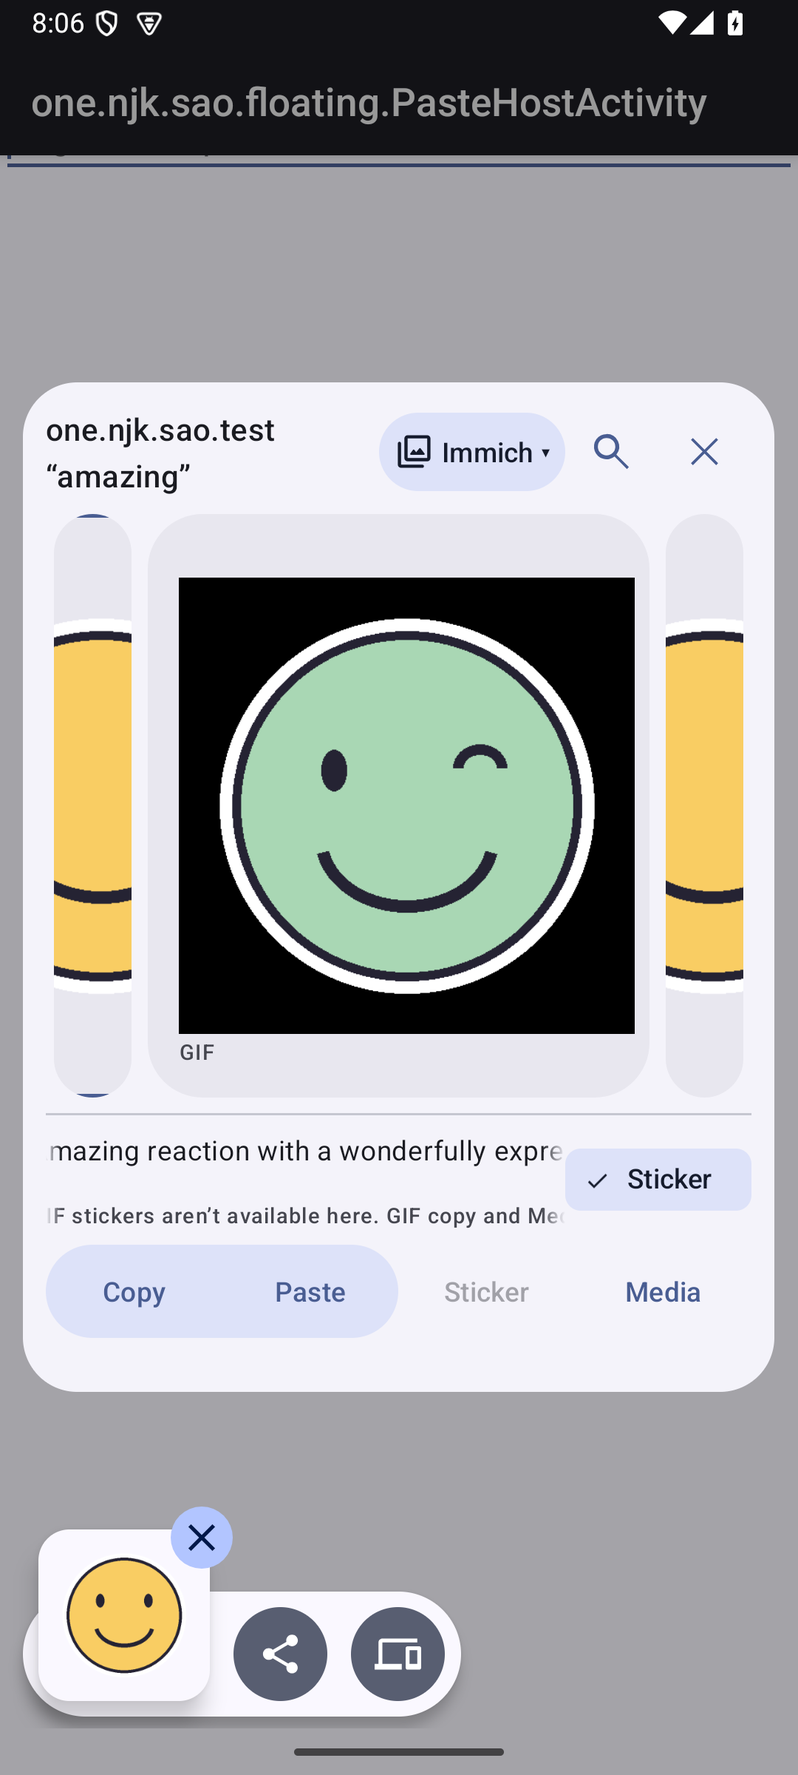
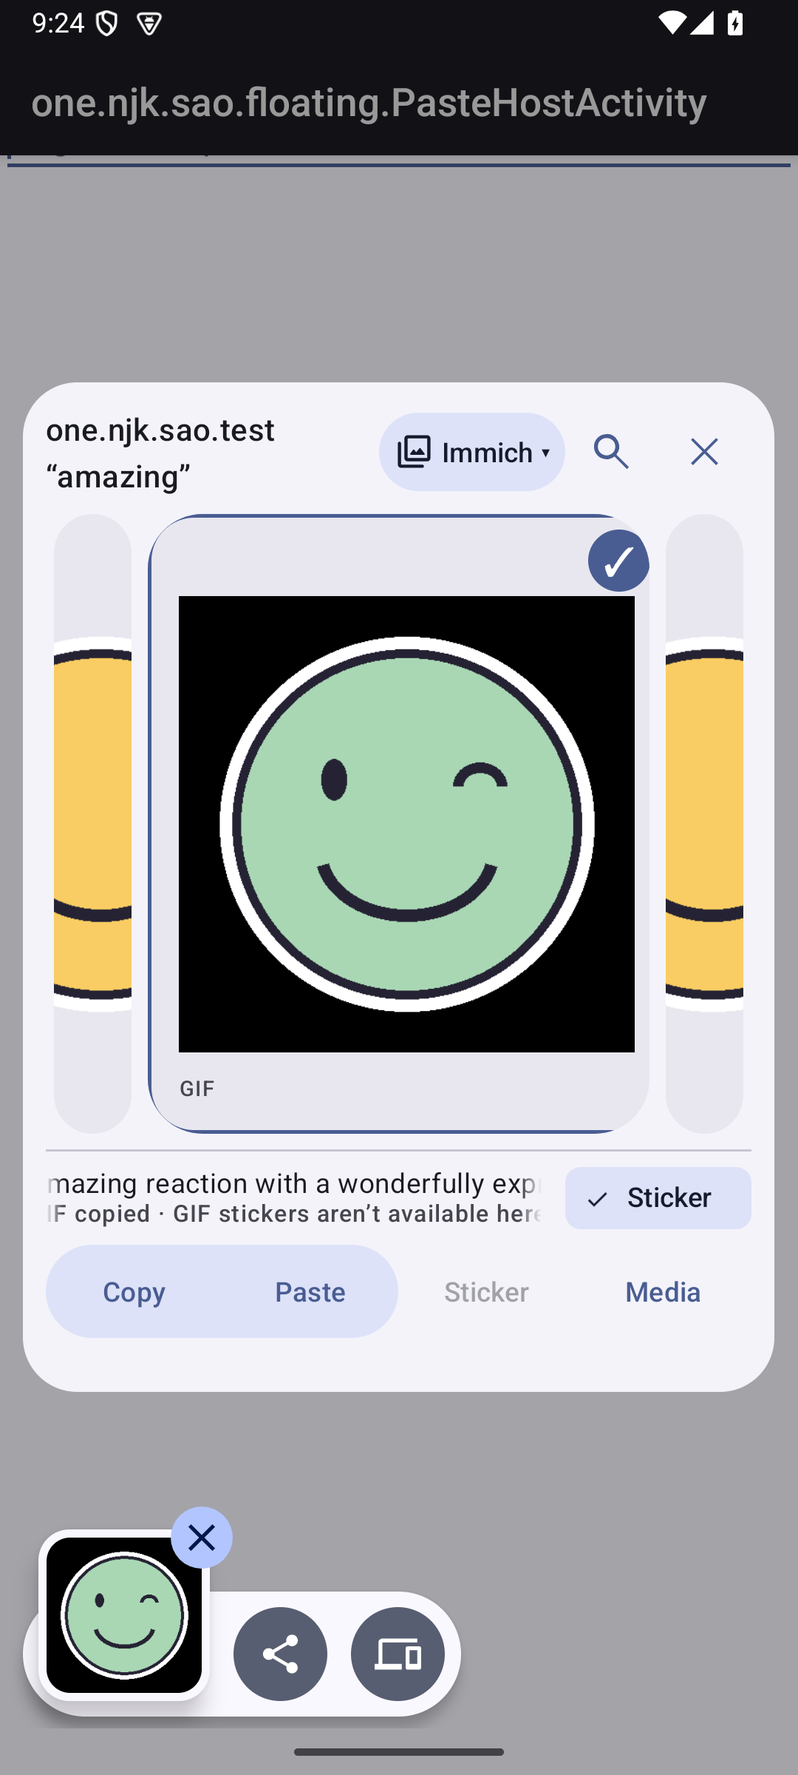
fix: tighten picker messages and align the delivery mode chip

diff --git a/app/src/androidTest/java/one/njk/sao/floating/PasteAssistDeviceTest.kt b/app/src/androidTest/java/one/njk/sao/floating/PasteAssistDeviceTest.kt
@@ -260,7 +260,7 @@ class PasteAssistDeviceTest {
                         var value = emptyList<Int>()
                         onPicker { activity ->
                             value = listOf(one.njk.sao.R.id.carousel_area, one.njk.sao.R.id.selection_row,
-                                one.njk.sao.R.id.capability_hint, one.njk.sao.R.id.dock_surface).flatMap { id ->
+                                one.njk.sao.R.id.selection_message, one.njk.sao.R.id.dock_surface).flatMap { id ->
                                 activity.findViewById<View>(id).let { listOf(it.top, it.height) }
                             }
                         }; return value
@@ -284,53 +284,67 @@ class PasteAssistDeviceTest {
                         onPicker { activity ->
                             val grid = activity.findViewById<androidx.recyclerview.widget.RecyclerView>(one.njk.sao.R.id.media_grid)
                             ready = grid.adapter!!.itemCount == 4 && !grid.isLayoutRequested &&
+                                (grid.findViewHolderForAdapterPosition(0) as? MediaCarouselAdapter.Holder)?.binding?.preview?.drawable != null &&
                                 activity.findViewById<View>(one.njk.sao.R.id.paste_action).isEnabled &&
                                 activity.findViewById<android.widget.TextView>(one.njk.sao.R.id.selection_title).text.startsWith("Amazing reaction") &&
-                                activity.findViewById<android.widget.TextView>(one.njk.sao.R.id.capability_hint).text.isEmpty()
+                                activity.findViewById<android.widget.TextView>(one.njk.sao.R.id.selection_message).text.isEmpty()
                         }; ready
                     }
                     SystemClock.sleep(150)
                     val empty = geometry(); screenshot("empty")
                     onPicker { it.findViewById<View>(one.njk.sao.R.id.copy_action).performClick() }
-                    await("Copy status must appear") { text(one.njk.sao.R.id.selection_status).isNotEmpty() }
+                    await("Copy status must appear") { text(one.njk.sao.R.id.selection_message).isNotEmpty() }
                     SystemClock.sleep(150)
                     val copied = geometry(); screenshot("copied")
                     onPicker { it.findViewById<androidx.recyclerview.widget.RecyclerView>(one.njk.sao.R.id.media_grid).smoothScrollToPosition(1) }
                     var trace = ""
                     try {
                         await("Centering a GIF must show its tip and clear the old copy status") {
-                            val hint = text(one.njk.sao.R.id.capability_hint)
-                            val status = text(one.njk.sao.R.id.selection_status)
+                            val hint = text(one.njk.sao.R.id.selection_message)
                             onPicker {
                                 val model = ViewModelProvider(it)[PickerViewModel::class.java]
                                 val grid = it.findViewById<androidx.recyclerview.widget.RecyclerView>(one.njk.sao.R.id.media_grid)
                                 val snap = (grid.onFlingListener as com.google.android.material.carousel.CarouselSnapHelper).findSnapView(grid.layoutManager!!)
-                                trace = "focus=${model.state.value.items.indexOfFirst { item -> item.id == model.focusedId }}, snap=${snap?.let { grid.getChildAdapterPosition(it) }}, layout=${grid.isLayoutRequested}, computing=${grid.isComputingLayout}, hint=$hint, status=$status"
+                                trace = "focus=${model.state.value.items.indexOfFirst { item -> item.id == model.focusedId }}, snap=${snap?.let { grid.getChildAdapterPosition(it) }}, layout=${grid.isLayoutRequested}, computing=${grid.isComputingLayout}, message=$hint"
                             }
-                            hint.contains("GIF") && status.isEmpty()
+                            hint == app.getString(one.njk.sao.R.string.picker_gif_hint)
                         }
                     } catch (failure: AssertionError) { screenshot("failure"); throw AssertionError(trace, failure) }
                     SystemClock.sleep(150)
                     val motion = geometry(); screenshot("tip")
                     assertEquals("Copy status must not move the carousel or dock", empty, copied)
                     assertEquals("An appearing tip must not move the carousel or dock", empty, motion)
+                    onPicker { it.findViewById<View>(one.njk.sao.R.id.copy_action).performClick() }
+                    await("Copy feedback and the hint must both fit in the supporting line") {
+                        val message = text(one.njk.sao.R.id.selection_message)
+                        message.startsWith(app.getString(one.njk.sao.R.string.picker_gif_copied)) &&
+                            message.endsWith(app.getString(one.njk.sao.R.string.picker_gif_hint))
+                    }
+                    SystemClock.sleep(150)
+                    assertEquals("Combined feedback must not move the carousel or dock", empty, geometry())
+                    screenshot("copied-tip")
                     assertEquals(1, searches.size); assertEquals("amazing", searches.single().getString("query"))
                     onPicker { activity ->
                         val title = activity.findViewById<View>(one.njk.sao.R.id.selection_title)
-                        val hint = activity.findViewById<View>(one.njk.sao.R.id.capability_hint)
+                        val hint = activity.findViewById<View>(one.njk.sao.R.id.selection_message)
                         val dock = activity.findViewById<View>(one.njk.sao.R.id.dock_surface)
                         assertSame("The tip belongs below the title", title.parent, hint.parent)
-                        assertTrue(title.bottom <= hint.top)
+                        val gap = hint.top - title.bottom
+                        assertTrue("The message must sit directly beneath the title, gap=$gap", gap in 0..2)
+                        val textBlock = activity.findViewById<View>(one.njk.sao.R.id.selection_text)
+                        val chip = activity.findViewById<View>(one.njk.sao.R.id.prefer_stickers)
+                        assertEquals("The two-line text block and mode chip must share a vertical center",
+                            (textBlock.top + textBlock.bottom) / 2f, (chip.top + chip.bottom) / 2f, 1f)
                         val background = dock.background as com.google.android.material.shape.MaterialShapeDrawable
                         assertEquals("The toolbar must not tint the panel behind the buttons", 0,
                             android.graphics.Color.alpha(background.fillColor!!.defaultColor))
                         marquees.animate(activity)
                     }
                     val titleBefore = pixels(one.njk.sao.R.id.selection_title)
-                    val tipBefore = pixels(one.njk.sao.R.id.capability_hint)
+                    val tipBefore = pixels(one.njk.sao.R.id.selection_message)
                     SystemClock.sleep(1_000)
                     val titlePaused = pixels(one.njk.sao.R.id.selection_title)
-                    val tipPaused = pixels(one.njk.sao.R.id.capability_hint)
+                    val tipPaused = pixels(one.njk.sao.R.id.selection_message)
                     try {
                         assertTrue("The title must stay still for a reading pause", titleBefore.sameAs(titlePaused))
                         assertTrue("The tip must stay still for a reading pause", tipBefore.sameAs(tipPaused))
@@ -338,7 +352,7 @@ class PasteAssistDeviceTest {
                     SystemClock.sleep(1_000)
                     screenshot("scrolling")
                     val titleAfter = pixels(one.njk.sao.R.id.selection_title)
-                    val tipAfter = pixels(one.njk.sao.R.id.capability_hint)
+                    val tipAfter = pixels(one.njk.sao.R.id.selection_message)
                     try {
                         assertFalse("An overflowing title must visibly scroll", titleBefore.sameAs(titleAfter))
                         assertFalse("An overflowing tip must visibly scroll", tipBefore.sameAs(tipAfter))

diff --git a/app/src/main/java/one/njk/sao/floating/PickerActivity.kt b/app/src/main/java/one/njk/sao/floating/PickerActivity.kt
@@ -82,7 +82,7 @@ class PickerActivity : AppCompatActivity() {
         readContext()
         binding = ActivityPickerBinding.inflate(layoutInflater)
         setContentView(binding.root)
-        dockMarquees = PickerMarquees(lifecycleScope, binding.selectionTitle, binding.selectionStatus, binding.capabilityHint)
+        dockMarquees = PickerMarquees(lifecycleScope, binding.selectionTitle, binding.selectionMessage)
         window.setLayout(-1, -1)
         metrics = windowManager.maximumWindowMetrics
         binding.root.setOnClickListener { finish() }
@@ -318,11 +318,11 @@ class PickerActivity : AppCompatActivity() {
     }
     private fun recordFocus() = carousel.recordFocus()
     internal fun dockMarquee(active: Boolean) = dockMarquees.setEnabled(active)
-    private fun updateHintVisibility() {
+    private fun updateMessageVisibility() {
         // Invisible reserves one font-scaled line; only a different UI mode removes the row.
-        binding.capabilityHint.visibility = when {
+        binding.selectionMessage.visibility = when {
             searchController.visible || compactEditing || compactSequence -> View.GONE
-            binding.capabilityHint.text.isEmpty() -> View.INVISIBLE
+            binding.selectionMessage.text.isEmpty() -> View.INVISIBLE
             else -> View.VISIBLE
         }
         dockMarquees.refresh()
@@ -438,9 +438,7 @@ class PickerActivity : AppCompatActivity() {
         val status = if (item == null || model.selection.value?.id != item.id || model.copyStatus.value == R.string.picker_choose)
             "" else getString(model.copyStatus.value)
         dockMarquees.text(binding.selectionTitle, title)
-        dockMarquees.text(binding.selectionStatus, status)
         binding.selectionTitle.contentDescription = title
-        binding.selectionStatus.contentDescription = status
         binding.copyAction.isEnabled = item != null && !busy
         val nativeRendition = nativePasteRendition(item)
         val nativePaste = nativeRendition != null
@@ -478,8 +476,14 @@ class PickerActivity : AppCompatActivity() {
             !binding.pasteAction.isEnabled -> getString(R.string.picker_assist_hint)
             else -> ""
         }
-        dockMarquees.text(binding.capabilityHint, hint)
-        updateHintVisibility()
+        val message = when {
+            status.isEmpty() -> hint
+            hint.isEmpty() -> status
+            else -> getString(R.string.picker_dock_message, status, hint)
+        }
+        dockMarquees.text(binding.selectionMessage, message)
+        binding.selectionMessage.contentDescription = message
+        updateMessageVisibility()
         if (target != MessagingTarget.OTHER && binding.targetList.isVisible) showTargets(false)
         updateActionAccessibility()
     }
@@ -587,7 +591,7 @@ class PickerActivity : AppCompatActivity() {
         binding.selectionRow.isVisible = !searchPanel && !compactEditing && !compactSequence
         binding.carouselArea.isVisible = searchPanel || !compactEditing
         updatePlayback()
-        updateHintVisibility()
+        updateMessageVisibility()
         val useFullScreen = imeHeight > 0 || shortViewport || largeText
         carousel.useFullScreen(useFullScreen)
         val twoRows = largeText && width < 560 * density && !tight

diff --git a/app/src/androidTest/java/one/njk/sao/floating/TelegramClipboardTest.kt b/app/src/androidTest/java/one/njk/sao/floating/TelegramClipboardTest.kt
@@ -36,7 +36,7 @@ class TelegramClipboardTest {
                 await(scenario) { it.findViewById<Chip>(R.id.prefer_stickers).text == it.getString(R.string.picker_sticker) }
                 val item = LocalMediaSource(app).all().first { !it.animated }
                 scenario.onActivity { ViewModelProvider(it)[PickerViewModel::class.java].select(item, MessagingTarget.TELEGRAM) }
-                await(scenario) { it.findViewById<TextView>(R.id.selection_status).text.toString() == it.getString(R.string.picker_telegram_sticker_copied) }
+                await(scenario) { it.findViewById<TextView>(R.id.selection_message).text.toString().startsWith(it.getString(R.string.picker_telegram_sticker_copied)) }
                 scenario.onActivity { activity ->
                     val clip = activity.getSystemService(ClipboardManager::class.java).primaryClip!!
                     assertTrue(clip.description.hasMimeType("image/webp")); assertTrue(clip.getItemAt(0).uri.toString().endsWith(".webp"))
@@ -69,7 +69,7 @@ class TelegramClipboardTest {
             ActivityScenario.launch<PickerActivity>(PickerActivity.intent(app, "nu.gpu.nagramx", null)).use { scenario ->
                 await(scenario) { it.findViewById<Chip>(R.id.prefer_stickers).text == it.getString(R.string.picker_sticker) }
                 scenario.onActivity { ViewModelProvider(it)[PickerViewModel::class.java].select(item, MessagingTarget.TELEGRAM) }
-                await(scenario) { it.findViewById<TextView>(R.id.selection_status).text.toString() == it.getString(R.string.picker_telegram_sticker_copied) }
+                await(scenario) { it.findViewById<TextView>(R.id.selection_message).text.toString().startsWith(it.getString(R.string.picker_telegram_sticker_copied)) }
                 SystemClock.sleep(100)
                 var stamp = 0L; var uri = ""; var chipWidth = 0; var carouselHeight = 0; var footerHeight = 0
                 scenario.onActivity {
@@ -90,8 +90,8 @@ class TelegramClipboardTest {
                         assertEquals(carouselHeight, it.findViewById<android.view.View>(R.id.carousel_area).height)
                         assertEquals(footerHeight, it.findViewById<android.view.View>(R.id.selection_row).height)
                         assertEquals(1, it.findViewById<TextView>(R.id.selection_title).lineCount)
-                        assertEquals(1, it.findViewById<TextView>(R.id.selection_status).lineCount)
-                        assertEquals(it.getString(R.string.picker_telegram_sticker_copied), it.findViewById<TextView>(R.id.selection_status).text.toString())
+                        assertEquals(1, it.findViewById<TextView>(R.id.selection_message).lineCount)
+                        assertTrue(it.findViewById<TextView>(R.id.selection_message).text.toString().startsWith(it.getString(R.string.picker_telegram_sticker_copied)))
                     }
                 }
             }

diff --git a/app/src/androidTest/java/one/njk/sao/floating/InstagramDeviceTest.kt b/app/src/androidTest/java/one/njk/sao/floating/InstagramDeviceTest.kt
@@ -25,6 +25,7 @@ import java.util.concurrent.atomic.AtomicReference
 
 /** Installed Instagram receiver checks and local fixture transport; no account or DM send. */
 class InstagramDeviceTest {
+    @get:org.junit.Rule val marquees = PickerMarqueeRule()
     private val instrumentation = InstrumentationRegistry.getInstrumentation()
     private val app = instrumentation.targetContext
     private val access get() = EntryPointAccessors.fromApplication(app, FloatingTestAccess::class.java)
@@ -104,7 +105,7 @@ class InstagramDeviceTest {
             await(scenario) { it.findViewById<View>(R.id.media_action).isEnabled }
             scenario.onActivity {
                 assertEquals("DM", it.findViewById<TextView>(R.id.media_action).text.toString())
-                assertEquals(it.getString(R.string.picker_instagram_hint), it.findViewById<TextView>(R.id.capability_hint).text.toString())
+                assertTrue(it.findViewById<TextView>(R.id.selection_message).text.toString().endsWith(it.getString(R.string.picker_instagram_hint)))
                 assertFalse(it.findViewById<View>(R.id.paste_action).isEnabled)
                 assertFalse(it.findViewById<View>(R.id.sticker_action).isEnabled)
             }
@@ -137,7 +138,7 @@ class InstagramDeviceTest {
                     assertTrue(it.findViewById<View>(R.id.copy_action).isEnabled)
                     assertFalse(it.findViewById<View>(R.id.media_action).isEnabled)
                     assertFalse(it.findViewById<View>(R.id.paste_action).isEnabled)
-                    assertEquals(it.getString(R.string.picker_instagram_unavailable), it.findViewById<TextView>(R.id.capability_hint).text.toString())
+                    assertTrue(it.findViewById<TextView>(R.id.selection_message).text.toString().endsWith(it.getString(R.string.picker_instagram_unavailable)))
                 }
             }
         } finally { change(if (state == PackageManager.COMPONENT_ENABLED_STATE_DEFAULT) "default-state" else "enable") }
@@ -158,7 +159,7 @@ class InstagramDeviceTest {
             val manager = activity.getSystemService(ClipboardManager::class.java)
             manager.primaryClipDescription?.hasMimeType("image/gif") == true &&
                 manager.primaryClip?.getItemAt(0)?.uri?.toString()?.contains(gif.id) == true &&
-                activity.findViewById<TextView>(R.id.selection_status).text.toString() == activity.getString(R.string.picker_gif_copied)
+                activity.findViewById<TextView>(R.id.selection_message).text.toString().startsWith(activity.getString(R.string.picker_gif_copied))
         }
         scenario.onActivity {
             val uri = it.getSystemService(ClipboardManager::class.java).primaryClip!!.getItemAt(0).uri

diff --git a/app/src/androidTest/java/one/njk/sao/floating/DiscordDeviceTest.kt b/app/src/androidTest/java/one/njk/sao/floating/DiscordDeviceTest.kt
@@ -36,6 +36,7 @@ import java.util.concurrent.atomic.AtomicReference
 
 @androidx.annotation.OptIn(UnstableApi::class)
 class DiscordDeviceTest {
+    @get:org.junit.Rule val marquees = PickerMarqueeRule()
     private val instrumentation = InstrumentationRegistry.getInstrumentation()
     private val app = instrumentation.targetContext
     private val access get() = EntryPointAccessors.fromApplication(app, FloatingTestAccess::class.java)
@@ -156,7 +157,7 @@ class DiscordDeviceTest {
                 assertTrue(it.findViewById<View>(R.id.media_action).isEnabled)
                 assertFalse(it.findViewById<View>(R.id.paste_action).isEnabled)
                 assertFalse(it.findViewById<View>(R.id.sticker_action).isEnabled)
-                assertEquals(it.getString(R.string.picker_discord_motion_hint), it.findViewById<TextView>(R.id.capability_hint).text.toString())
+                assertTrue(it.findViewById<TextView>(R.id.selection_message).text.toString().endsWith(it.getString(R.string.picker_discord_motion_hint)))
             }
         }
     }
@@ -186,7 +187,7 @@ class DiscordDeviceTest {
             while (!copied && SystemClock.elapsedRealtime() < deadline) {
                 scenario.onActivity {
                     copied = it.getSystemService(ClipboardManager::class.java).primaryClipDescription?.hasMimeType("image/gif") == true &&
-                        it.findViewById<TextView>(R.id.selection_status).text.toString() == it.getString(R.string.picker_gif_copied)
+                        it.findViewById<TextView>(R.id.selection_message).text.toString().startsWith(it.getString(R.string.picker_gif_copied))
                 }
                 SystemClock.sleep(40)
             }
@@ -195,7 +196,7 @@ class DiscordDeviceTest {
                 val uri = it.getSystemService(ClipboardManager::class.java).primaryClip!!.getItemAt(0).uri
                 assertArrayEquals(app.assets.open(gif.asset).use { stream -> stream.readBytes() },
                     it.contentResolver.openInputStream(uri)!!.use { stream -> stream.readBytes() })
-                assertEquals(it.getString(R.string.picker_discord_paste_inactive), it.findViewById<TextView>(R.id.capability_hint).text.toString())
+                assertTrue(it.findViewById<TextView>(R.id.selection_message).text.toString().endsWith(it.getString(R.string.picker_discord_paste_inactive)))
                 assertFalse(it.findViewById<View>(R.id.sticker_action).isEnabled)
                 assertTrue(it.findViewById<View>(R.id.media_action).isEnabled)
                 // Launching without an editor lease must not silently paste into another chat.

diff --git a/app/src/androidTest/java/one/njk/sao/floating/LiveImmichDeviceTest.kt b/app/src/androidTest/java/one/njk/sao/floating/LiveImmichDeviceTest.kt
@@ -164,7 +164,7 @@ class LiveImmichDeviceTest {
                 scenario.onActivity {
                     assertTrue(it.findViewById<RecyclerView>(R.id.media_grid).findViewHolderForAdapterPosition(0)!!.itemView.performClick())
                 }
-                await(scenario, "Selecting a live image must copy immediately") { it.findViewById<TextView>(R.id.selection_status).text.toString() == it.getString(R.string.picker_telegram_sticker_copied) }
+                await(scenario, "Selecting a live image must copy immediately") { it.findViewById<TextView>(R.id.selection_message).text.toString().startsWith(it.getString(R.string.picker_telegram_sticker_copied)) }
                 var stamp = 0L; var clipUri = ""
                 scenario.onActivity {
                     val clip = it.getSystemService(ClipboardManager::class.java).primaryClip!!
@@ -208,7 +208,7 @@ class LiveImmichDeviceTest {
                     val header = ByteArray(6); stream.read(header) == 6 && header.toString(Charsets.US_ASCII).startsWith("GIF8") })
                 ActivityScenario.launch<PickerActivity>(PickerActivity.intent(app, "nu.gpu.nagramx", null)).use { scenario ->
                     scenario.onActivity { model(it).select(gif, MessagingTarget.TELEGRAM) }
-                    await(scenario, "Real GIF must copy without flattening") { it.findViewById<TextView>(R.id.selection_status).text.toString() == it.getString(R.string.picker_gif_copied) }
+                    await(scenario, "Real GIF must copy without flattening") { it.findViewById<TextView>(R.id.selection_message).text.toString().startsWith(it.getString(R.string.picker_gif_copied)) }
                     scenario.onActivity {
                         val clip = it.getSystemService(ClipboardManager::class.java).primaryClip!!
                         assertTrue(clip.description.hasMimeType("image/gif"))

diff --git a/app/src/androidTest/java/one/njk/sao/floating/FloatingDeviceTest.kt b/app/src/androidTest/java/one/njk/sao/floating/FloatingDeviceTest.kt
@@ -675,7 +675,9 @@ class FloatingDeviceTest {
             val second = centered(scenario)!!
             scenario.onActivity { activity ->
                 assertEquals(first.id, androidx.lifecycle.ViewModelProvider(activity)[PickerViewModel::class.java].selection.value?.id)
-                assertEquals("", activity.findViewById<android.widget.TextView>(R.id.selection_status).text.toString())
+                val copied = activity.getString(androidx.lifecycle.ViewModelProvider(activity)[PickerViewModel::class.java].copyStatus.value)
+                assertFalse("The previous item's copy feedback must not remain",
+                    activity.findViewById<android.widget.TextView>(R.id.selection_message).text.startsWith(copied))
             }
             assertEquals("Browsing must not copy", lastCopy, clip(scenario))
             scenario.onActivity { it.findViewById<android.view.View>(R.id.copy_action).performClick() }

diff --git a/app/src/androidTest/java/one/njk/sao/floating/VideoDeviceTest.kt b/app/src/androidTest/java/one/njk/sao/floating/VideoDeviceTest.kt
@@ -114,7 +114,7 @@ class VideoDeviceTest {
                     }
                     if (videoEnabled) {
                         await(scenario, "Native-video guidance must describe the direct send") {
-                            it.findViewById<android.widget.TextView>(R.id.capability_hint).text.contains("video directly")
+                            it.findViewById<android.widget.TextView>(R.id.selection_message).text.contains("video directly")
                         }
                         if (InstrumentationRegistry.getArguments().containsKey("dockShots")) {
                             SystemClock.sleep(800)

diff --git a/docs/screenshots/README.md b/docs/screenshots/README.md
@@ -12,8 +12,9 @@ The optional sequence view follows Immich's Photos ordering and labels each card
 | --- | --- |
 | <img src="floating-sequence.png" width="280" alt="Chronological neighbors with upload date and time and a Back to results action" /> | <img src="floating-sequence-settings.png" width="280" alt="Browse sequence toggle and configurable 160 millisecond hold delay" /> |
 
-Dock messages sit below the title and above the action buttons. Text rows reserve space when
-empty; overflowing labels pause for 1.5 seconds before scrolling. Opening search selects the
+The title and one supporting message line form a compact block centered beside the
+Sticker/Media chip. Copy feedback and guidance share that line, which reserves space
+when empty; overflowing labels pause for 1.5 seconds before scrolling. Opening search selects the
 whole existing query, and Lucky's icon follows the Material light/dark theme.
 
 | Dock text above actions | Search selection in dark mode | Accessibility instructions |
